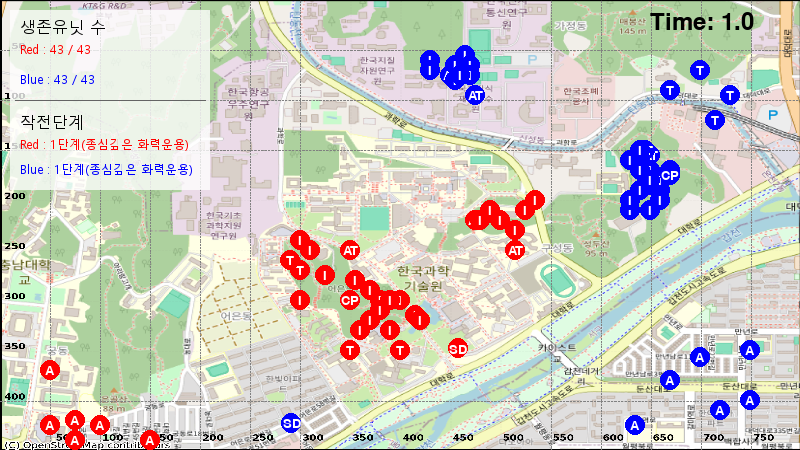
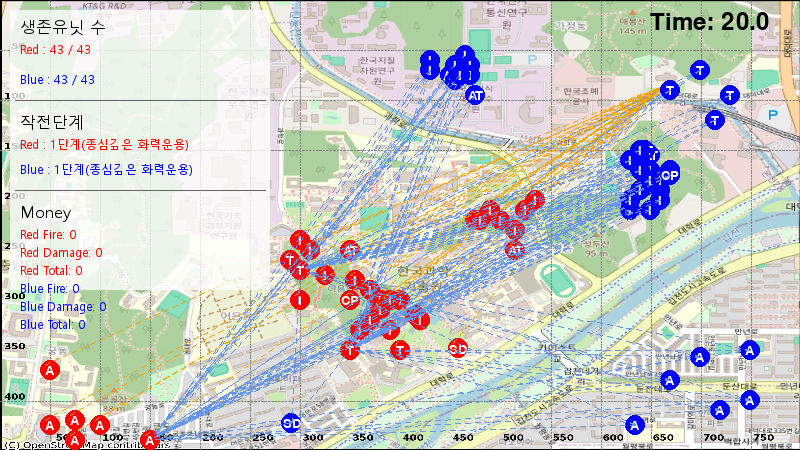
Add money tracking and extend simulation runtime

diff --git a/war-game-modeling/simulation.py b/war-game-modeling/simulation.py
@@ -9,6 +9,7 @@ from model.fire import Fire
 from model.detect import Detect
 from model.movement import Movement
 from model.command import Command, Phase
+from model.money import MoneyTracker
 import heapq
 import argparse
 import os
@@ -40,7 +41,8 @@ def _safe_rmtree(path: str) -> None:
 
 class Simulation:
     def __init__(self, config_file: str, time_scale: float = 1.0, sim_speed: float = 1.0, 
-                 show_detection: bool = False, show_eligible_targets: bool = False, show_fire: bool = False):
+                 show_detection: bool = False, show_eligible_targets: bool = False, show_fire: bool = False,
+                 record_video: Optional[bool] = None):
         """시뮬레이션 초기화"""
         self.config = self._load_config(config_file)
         self.units = []
@@ -54,7 +56,8 @@ class Simulation:
         self.show_fire = show_fire
         
         # 비디오 설정
-        self.record_video = self.config.get('video', {}).get('enabled', False)
+        configured_record_video = self.config.get('video', {}).get('enabled', False)
+        self.record_video = configured_record_video if record_video is None else record_video
         self.output_path = self.config.get('video', {}).get('output_path', 'simulation.mp4')
         self.video_fps = self.config.get('video', {}).get('fps', 30)
         
@@ -67,8 +70,9 @@ class Simulation:
         self.max_time = self.config.get('max_time', 100.0)
         
         # 모델 컴포넌트 초기화
+        self.money_tracker = MoneyTracker(self.config.get('money', {}))
         self.movement = Movement()
-        self.fire = Fire()
+        self.fire = Fire(self.money_tracker)
         self.detect = Detect()
         
         # 명령 초기화
@@ -78,7 +82,7 @@ class Simulation:
         }
         
         # 시각화 초기화
-        self.visualizer = Visualizer(800, 450, show_detection=self.show_detection, show_eligible_targets=self.show_eligible_targets, show_fire=self.show_fire, record_video=self.record_video, output_path=self.output_path)
+        self.visualizer = Visualizer(800, 450, show_detection=self.show_detection, show_eligible_targets=self.show_eligible_targets, show_fire=self.show_fire, record_video=self.record_video, output_path=self.output_path, money_tracker=self.money_tracker)
         self.visualizer.fire = self.fire  # Fire 객체 공유
         self.visualizer.commands = self.commands  # Command 정보 공유
         
@@ -185,7 +189,13 @@ class Simulation:
                 return self.fire.fire(attacker, target, self.units, self.commands[attacker.team], self.current_time)
         return None
 
-    def run_simulation(self, max_time: float = None):
+    def print_money_summary(self):
+        """Print final money totals for both teams."""
+        print("Money summary:")
+        print(self.money_tracker.format_team_summary(Team.RED))
+        print(self.money_tracker.format_team_summary(Team.BLUE))
+
+    def run_simulation(self, max_time: float = None, hold_open: bool = True):
         """시뮬레이션 실행"""
         if max_time is None:
             max_time = self.max_time
@@ -295,6 +305,11 @@ class Simulation:
             self.visualizer.create_video(self.output_path, self.video_fps)
             # 비디오 생성 후 프레임 디렉토리 정리
             _safe_rmtree(self.visualizer.frame_dir)
+
+        self.print_money_summary()
+        if not hold_open:
+            self.visualizer.close()
+            return
         
         # 창 유지
         while True:
@@ -313,6 +328,9 @@ if __name__ == "__main__":
     parser.add_argument('--eligible_TL', type=str, choices=['T', 'F'], default='F', help='Show eligible target lines (T/F)')
     parser.add_argument('--fire', type=str, choices=['T', 'F'], default='F', help='Show fire lines (T/F)')
     parser.add_argument('--sim_speed', type=float, default=1.0, help='Simulation speed')
+    parser.add_argument('--max-time', type=float, default=None, help='Override max simulation time')
+    parser.add_argument('--no-hold', action='store_true', help='Close the simulation window at the end')
+    parser.add_argument('--no-video', action='store_true', help='Disable video recording for this run')
 
     args = parser.parse_args()
     
@@ -322,6 +340,7 @@ if __name__ == "__main__":
         show_detection=(args.detection == 'T'),
         show_eligible_targets=(args.eligible_TL == 'T'),
         show_fire=(args.fire == 'T'),
-        sim_speed=args.sim_speed
+        sim_speed=args.sim_speed,
+        record_video=False if args.no_video else None
     )
-    simulation.run_simulation() 
+    simulation.run_simulation(max_time=args.max_time, hold_open=not args.no_hold)

diff --git a/war-game-modeling/model/money.py b/war-game-modeling/model/money.py
@@ -1,0 +1,97 @@
+from typing import Dict
+
+from model.unit import Status, Team, Unit, UnitType
+
+
+DEFAULT_FIRE_COST = {
+    UnitType.RIFLE: 10.0,
+    UnitType.ANTI_TANK: 200.0,
+    UnitType.TANK: 300.0,
+    UnitType.ARTILLERY: 500.0,
+    UnitType.DRONE: 0.0,
+    UnitType.SELF_DEST_DRONE: 1000.0,
+    UnitType.COMMAND_POST: 0.0,
+}
+
+DEFAULT_UNIT_VALUE = {
+    UnitType.RIFLE: 100.0,
+    UnitType.ANTI_TANK: 800.0,
+    UnitType.TANK: 5000.0,
+    UnitType.ARTILLERY: 3000.0,
+    UnitType.DRONE: 1500.0,
+    UnitType.SELF_DEST_DRONE: 2000.0,
+    UnitType.COMMAND_POST: 10000.0,
+}
+
+DEFAULT_DAMAGE_RATIO = {
+    Status.ALIVE: 0.0,
+    Status.MINOR: 0.1,
+    Status.SERIOUS: 0.5,
+    Status.CRITICAL: 0.8,
+    Status.FATAL: 1.0,
+    Status.M_KILL: 0.4,
+    Status.F_KILL: 0.4,
+    Status.MF_KILL: 0.7,
+    Status.K_KILL: 1.0,
+}
+
+
+class MoneyTracker:
+    def __init__(self, money_config: Dict = None):
+        money_config = money_config or {}
+        self.fire_cost_by_type = self._load_unit_type_values(
+            DEFAULT_FIRE_COST,
+            money_config.get("fire_cost", {}),
+        )
+        self.unit_value_by_type = self._load_unit_type_values(
+            DEFAULT_UNIT_VALUE,
+            money_config.get("unit_value", {}),
+        )
+        self.damage_ratio_by_status = self._load_status_values(
+            DEFAULT_DAMAGE_RATIO,
+            money_config.get("damage_ratio", {}),
+        )
+        self.fire_cost = {team: 0.0 for team in Team}
+        self.damage_cost = {team: 0.0 for team in Team}
+
+    def _load_unit_type_values(self, defaults: Dict[UnitType, float], overrides: Dict) -> Dict[UnitType, float]:
+        values = dict(defaults)
+        for key, value in overrides.items():
+            values[UnitType[key]] = float(value)
+        return values
+
+    def _load_status_values(self, defaults: Dict[Status, float], overrides: Dict) -> Dict[Status, float]:
+        values = dict(defaults)
+        for key, value in overrides.items():
+            values[Status[key]] = float(value)
+        return values
+
+    def record_fire(self, attacker: Unit) -> None:
+        self.fire_cost[attacker.team] += self.fire_cost_by_type.get(attacker.unit_type, 0.0)
+
+    def record_damage(self, unit: Unit, old_status: Status, new_status: Status) -> None:
+        old_ratio = self.damage_ratio_by_status.get(old_status, 0.0)
+        new_ratio = self.damage_ratio_by_status.get(new_status, 0.0)
+        ratio_delta = max(0.0, new_ratio - old_ratio)
+        if ratio_delta == 0.0:
+            return
+
+        unit_value = self.unit_value_by_type.get(unit.unit_type, 0.0)
+        self.damage_cost[unit.team] += unit_value * ratio_delta
+
+    def get_team_summary(self, team: Team) -> Dict[str, float]:
+        fire_cost = self.fire_cost[team]
+        damage_cost = self.damage_cost[team]
+        return {
+            "fire": fire_cost,
+            "damage": damage_cost,
+            "total": fire_cost + damage_cost,
+        }
+
+    def format_team_summary(self, team: Team) -> str:
+        summary = self.get_team_summary(team)
+        return (
+            f"{team.value} Fire: {summary['fire']:,.0f} | "
+            f"Damage: {summary['damage']:,.0f} | "
+            f"Total: {summary['total']:,.0f}"
+        )

diff --git a/war-game-modeling/model/visualization.py b/war-game-modeling/model/visualization.py
@@ -43,7 +43,7 @@ with open('config.yaml', 'r') as f:
     config = yaml.safe_load(f)
 
 class Visualizer:
-    def __init__(self, width: int = 1600, height: int = 900, show_detection: bool = False, show_eligible_targets: bool = False, show_fire: bool = False, record_video: bool = False, output_path: str = "simulation.mp4"):
+    def __init__(self, width: int = 1600, height: int = 900, show_detection: bool = False, show_eligible_targets: bool = False, show_fire: bool = False, record_video: bool = False, output_path: str = "simulation.mp4", money_tracker=None):
         pygame.init()
         self.width = width
         self.height = height
@@ -52,6 +52,7 @@ class Visualizer:
         self.show_detection = show_detection
         self.show_eligible_targets = show_eligible_targets
         self.show_fire = show_fire
+        self.money_tracker = money_tracker
         
         # 이벤트와 시간 정보
         self.events = []
@@ -147,8 +148,8 @@ class Visualizer:
     def draw_unit_count_panel(self, units: List[Unit]):
         """생존 유닛 수를 보여주는 패널 그리기"""
         # 패널 크기와 위치 설정
-        panel_width = 200
-        panel_height = 180  # 높이를 늘려서 로그 공간 확보
+        panel_width = 260
+        panel_height = 280  # 높이를 늘려서 돈 표시 공간 확보
         panel_x = 10  # 왼쪽으로 이동
         panel_y = 10
         
@@ -212,6 +213,34 @@ class Visualizer:
         blue_phase = phase_names.get(self.commands[Team.BLUE].phase.name, self.commands[Team.BLUE].phase.name)
         blue_phase_text = self.team_count_font.render(f"Blue : {blue_phase}", True, self.colors[Team.BLUE])
         self.screen.blit(blue_phase_text, (panel_x + 10, separator_y + 60))
+
+        if self.money_tracker:
+            money_separator_y = separator_y + 90
+            pygame.draw.line(
+                self.screen,
+                (100, 100, 100),
+                (panel_x + 5, money_separator_y),
+                (panel_x + panel_width - 5, money_separator_y),
+                1
+            )
+
+            money_title = self.panel_font.render("Money", True, (0, 0, 0))
+            self.screen.blit(money_title, (panel_x + 10, money_separator_y + 10))
+
+            red_money = self.money_tracker.get_team_summary(Team.RED)
+            blue_money = self.money_tracker.get_team_summary(Team.BLUE)
+            money_lines = [
+                (f"Red Fire: {red_money['fire']:,.0f}", self.colors[Team.RED]),
+                (f"Red Damage: {red_money['damage']:,.0f}", self.colors[Team.RED]),
+                (f"Red Total: {red_money['total']:,.0f}", self.colors[Team.RED]),
+                (f"Blue Fire: {blue_money['fire']:,.0f}", self.colors[Team.BLUE]),
+                (f"Blue Damage: {blue_money['damage']:,.0f}", self.colors[Team.BLUE]),
+                (f"Blue Total: {blue_money['total']:,.0f}", self.colors[Team.BLUE]),
+            ]
+
+            for index, (line, color) in enumerate(money_lines):
+                money_text = self.team_count_font.render(line, True, color)
+                self.screen.blit(money_text, (panel_x + 10, money_separator_y + 35 + index * 18))
 
     def draw_unit(self, unit: Unit):
         """유닛 그리기"""

diff --git a/war-game-modeling/model/fire.py b/war-game-modeling/model/fire.py
@@ -6,6 +6,7 @@ from model.detect import Detect
 from model.terrain import Terrain
 from model.probabilities import ProbabilitySystem
 from model.function import calculate_distance, calculate_point_distance
+from model.money import MoneyTracker
 import random
 import math
 import pandas as pd
@@ -17,9 +18,18 @@ with open('config.yaml', 'r') as f:
 PIXEL_TO_METER_SCALE = config['simulation']['pixel_to_meter_scale']
 
 class Fire:
-    def __init__(self):
+    def __init__(self, money_tracker: Optional[MoneyTracker] = None):
         self.detect = Detect()
         self.terrain = Terrain()
+        self.money_tracker = money_tracker
+
+    def record_damage_cost(self, unit: Unit, old_status: Status, new_status: Status) -> None:
+        if self.money_tracker and old_status != new_status:
+            self.money_tracker.record_damage(unit, old_status, new_status)
+
+    def record_fire_cost(self, attacker: Unit) -> None:
+        if self.money_tracker:
+            self.money_tracker.record_fire(attacker)
 
     
 
@@ -111,6 +121,7 @@ class Fire:
                             cumulative += prob
                             if rand_val <= cumulative:
                                 unit.update_status(status)
+                                self.record_damage_cost(unit, old_status, status)
                                 affected_units.append((unit, old_status, status))
                                 break
 
@@ -232,6 +243,7 @@ class Fire:
                 return None
             
             # 탄착지점 주변의 모든 유닛에 대한 피해 적용
+            self.record_fire_cost(attacker)
             self.apply_artillery_damage(impact_point, all_units, current_time)
             attacker.update_action(Action.STOP)  # 사격 완료 후 STOP으로 변경
             if attacker.unit_type == UnitType.SELF_DEST_DRONE:
@@ -254,6 +266,7 @@ class Fire:
             - 탱크·곡사포: MF-kill 이상이면 “무력화 성공” (재탐색 대신 후속 사격 중지)
             - 소총·대전차·지휘관: 치명상(Fatal)이면 “무력화 성공”
         """
+        self.record_fire_cost(attacker)
         protection_state = self.get_protection_state(target)
         hit_prob = (
             ProbabilitySystem.get_hit_probability(attacker.unit_type, target.unit_type, distance, protection_state)
@@ -285,6 +298,7 @@ class Fire:
                 cumulative += prob   # multivariante probability sampling method
                 if rand_val <= cumulative:
                     target.update_status(status)
+                    self.record_damage_cost(target, old_status, status)
                     break
 
         attacker.update_action(Action.STOP)  # 사격 완료 후 STOP으로 변경
